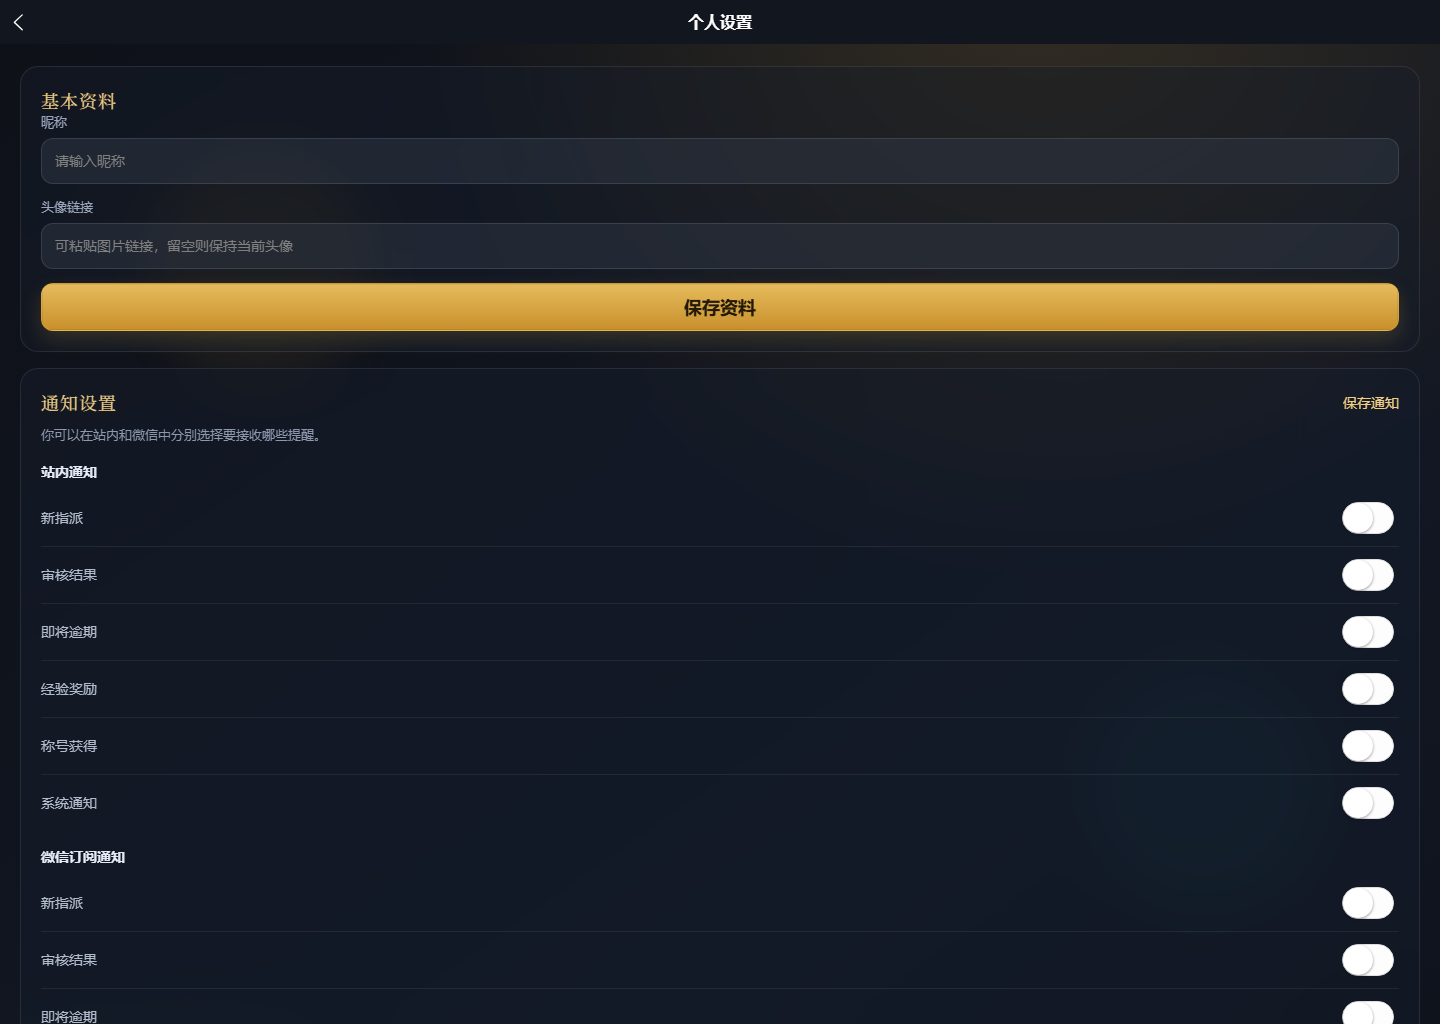
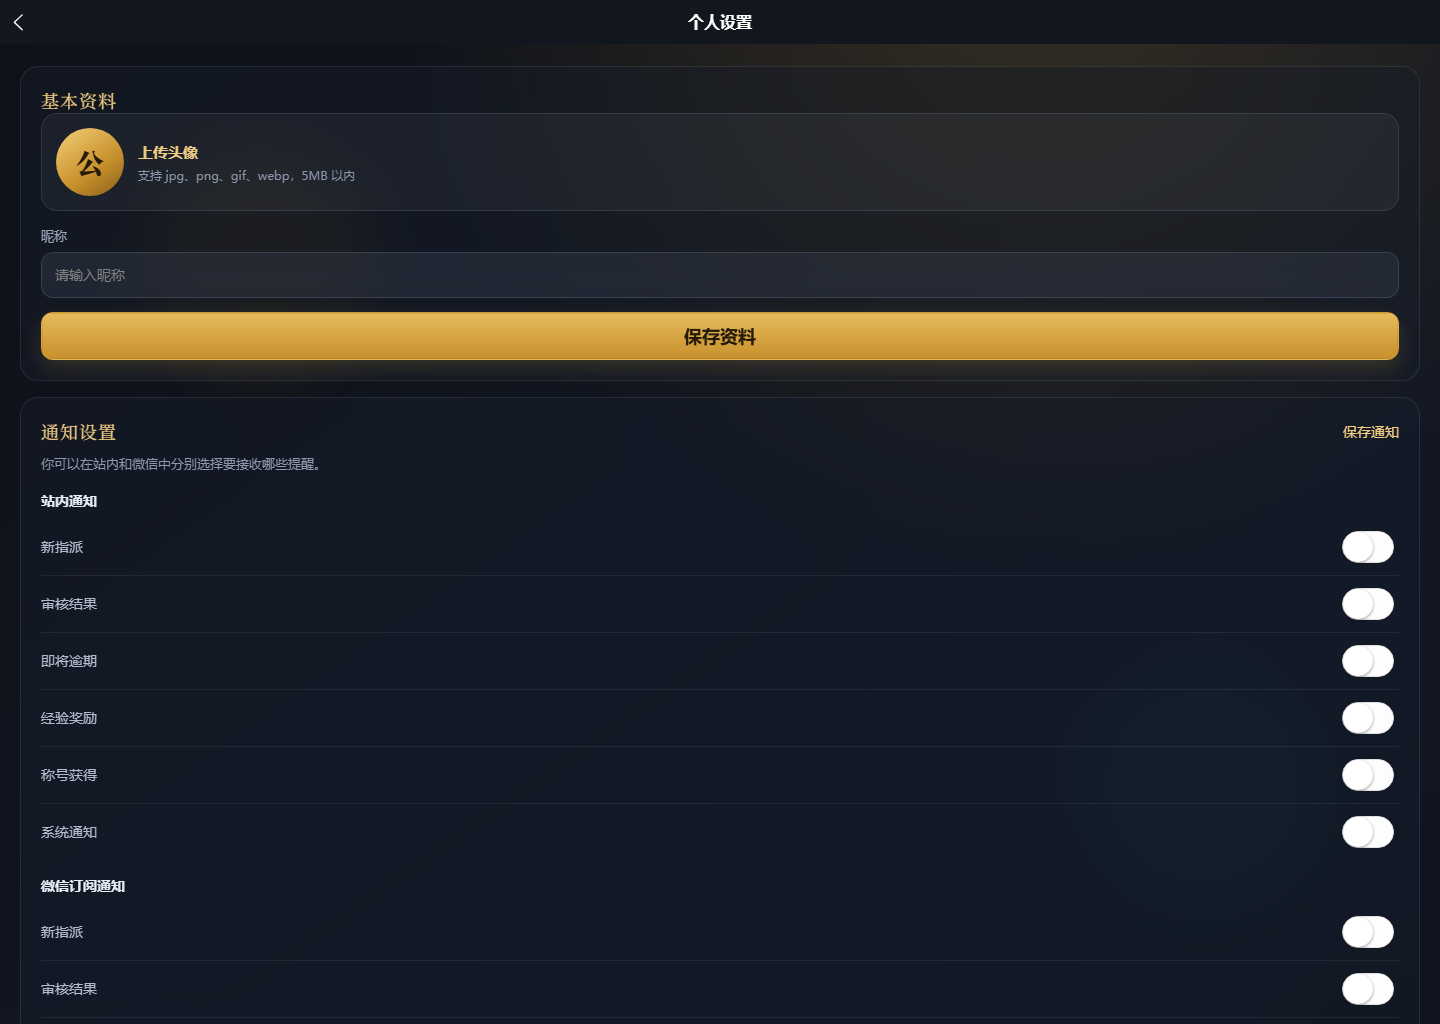
完善头像上传与展示

Changed region(s): [[0.0312, 0.0938, 0.9688, 1.0], [0.9062, 0.4688, 0.9688, 1.0]]

diff --git a/apps/web/src/pages/me/settings.vue b/apps/web/src/pages/me/settings.vue
@@ -5,13 +5,17 @@
 
     <view class="section">
       <text class="section-title">基本资料</text>
+      <view class="avatar-row" @tap="chooseAvatar">
+        <image v-if="avatarUrl" class="avatar-img" :src="avatarUrl" mode="aspectFill" />
+        <view v-else class="avatar-placeholder">{{ initials }}</view>
+        <view class="avatar-action">
+          <text class="avatar-action-title">{{ avatarUrl ? '更换头像' : '上传头像' }}</text>
+          <text class="avatar-action-sub">支持 jpg、png、gif、webp，5MB 以内</text>
+        </view>
+      </view>
       <view class="field-row">
         <text class="field-label">昵称</text>
         <input v-model="nickname" class="field" placeholder="请输入昵称" />
-      </view>
-      <view class="field-row">
-        <text class="field-label">头像链接</text>
-        <input v-model="avatarUrl" class="field" placeholder="可粘贴图片链接，留空则保持当前头像" />
       </view>
       <button class="btn primary" :loading="savingProfile" @tap="saveProfile">保存资料</button>
     </view>
@@ -62,7 +66,12 @@
 <script setup lang="ts">
 import { ref } from 'vue';
 import { onShow } from '@dcloudio/uni-app';
-import { request, setCachedUser } from '../../api/client';
+import {
+  getAccessToken,
+  PUBLIC_ORIGIN,
+  request,
+  setCachedUser,
+} from '../../api/client';
 import { useAuthStore } from '../../stores/auth';
 
 interface SelfProfile {
@@ -89,6 +98,7 @@ const savingProfile = ref(false);
 const savingPassword = ref(false);
 const inapp = ref<Record<string, boolean>>({});
 const wechat = ref<Record<string, boolean>>({});
+const initials = (auth.user?.nickname ?? '公').slice(0, 1);
 
 const inappItems = [
   { key: 'assign', label: '新指派' },
@@ -141,7 +151,6 @@ async function saveProfile() {
       method: 'PATCH',
       data: {
         nickname: nickname.value.trim(),
-        avatarUrl: avatarUrl.value.trim() || null,
       },
     });
     setCachedUser(updated);
@@ -152,6 +161,59 @@ async function saveProfile() {
   } finally {
     savingProfile.value = false;
   }
+}
+
+function chooseAvatar() {
+  uni.chooseImage({
+    count: 1,
+    success: async (result) => {
+      const filePath = result.tempFilePaths[0];
+      if (!filePath) {
+        return;
+      }
+      try {
+        const updated = await uploadAvatar(filePath);
+        avatarUrl.value = updated.avatarUrl ?? '';
+        setCachedUser(updated);
+        auth.user = updated as unknown as typeof auth.user;
+        uni.showToast({ title: '头像已更新', icon: 'success' });
+      } catch (error) {
+        uni.showToast({ title: (error as { message: string }).message, icon: 'none' });
+      }
+    },
+  });
+}
+
+function uploadAvatar(filePath: string): Promise<SelfProfile> {
+  return new Promise((resolve, reject) => {
+    uni.uploadFile({
+      url: `${PUBLIC_ORIGIN}/api/v1/users/me/avatar`,
+      filePath,
+      name: 'file',
+      header: {
+        Authorization: `Bearer ${getAccessToken()}`,
+      },
+      success: (response) => {
+        if (response.statusCode >= 200 && response.statusCode < 300) {
+          try {
+            resolve(JSON.parse(response.data) as SelfProfile);
+          } catch {
+            reject({ message: '头像保存失败' });
+          }
+        } else {
+          let message = '头像上传失败';
+          try {
+            const body = JSON.parse(response.data) as { message?: string };
+            message = body.message ?? message;
+          } catch {
+            /* keep default */
+          }
+          reject({ message });
+        }
+      },
+      fail: () => reject({ message: '网络异常，请稍后重试' }),
+    });
+  });
 }
 
 async function savePrefs() {
@@ -280,6 +342,49 @@ onShow(() => {
   flex-direction: column;
   gap: 8px;
   margin-bottom: 14px;
+}
+.avatar-row {
+  display: flex;
+  align-items: center;
+  gap: 14px;
+  padding: 14px;
+  margin-bottom: 16px;
+  border-radius: 16px;
+  background: rgba(255, 255, 255, 0.045);
+  border: 1px solid rgba(148, 163, 190, 0.18);
+}
+.avatar-img,
+.avatar-placeholder {
+  width: 68px;
+  height: 68px;
+  border-radius: 50%;
+  flex-shrink: 0;
+}
+.avatar-img {
+  border: 2px solid rgba(224, 170, 60, 0.34);
+}
+.avatar-placeholder {
+  display: grid;
+  place-items: center;
+  color: #241a08;
+  font-family: var(--font-display);
+  font-size: 28px;
+  font-weight: 800;
+  background: linear-gradient(145deg, #f2cf77, #c8902c 60%, #8a5f1a);
+}
+.avatar-action {
+  display: flex;
+  flex-direction: column;
+  gap: 5px;
+}
+.avatar-action-title {
+  color: #f2ce85;
+  font-size: 15px;
+  font-weight: 700;
+}
+.avatar-action-sub {
+  color: #8d98ad;
+  font-size: 12px;
 }
 .field-label {
   color: #9aa5bb;

diff --git a/apps/api/src/auth/auth.controller.ts b/apps/api/src/auth/auth.controller.ts
@@ -2,6 +2,7 @@ import { Body, Controller, Get, Post } from '@nestjs/common';
 import { CurrentUser, Public, type RequestUser } from '../common/decorators';
 import { PrismaService } from '../prisma/prisma.service';
 import { AuthService } from './auth.service';
+import { env } from '../config/env';
 import {
   LoginDto,
   RefreshDto,
@@ -52,7 +53,7 @@ export class AuthController {
 
   @Get('me')
   async me(@CurrentUser() user: RequestUser) {
-    return this.prisma.user.findUniqueOrThrow({
+    const row = await this.prisma.user.findUniqueOrThrow({
       where: { id: user.id },
       select: {
         id: true,
@@ -64,5 +65,11 @@ export class AuthController {
         department: { select: { name: true } },
       },
     });
+    return {
+      ...row,
+      avatarUrl: row.avatarUrl
+        ? `${env.publicBaseUrl}/api/v1/users/${user.id}/avatar`
+        : null,
+    };
   }
 }

diff --git a/apps/web/src/pages/me/index.vue b/apps/web/src/pages/me/index.vue
@@ -4,7 +4,8 @@
     <view class="glow glow-b" />
 
     <view class="profile-card">
-      <view class="avatar">{{ initials }}</view>
+      <image v-if="auth.user?.avatarUrl" class="avatar avatar-img" :src="auth.user.avatarUrl" mode="aspectFill" />
+      <view v-else class="avatar">{{ initials }}</view>
       <view class="identity">
         <text class="name">{{ auth.user?.nickname }}</text>
         <text class="username">@{{ auth.user?.username }}</text>
@@ -216,6 +217,9 @@ onShow(() => {
   font-weight: 800;
   background: linear-gradient(145deg, #f2cf77, #c8902c 60%, #8a5f1a);
   box-shadow: 0 12px 28px rgba(224, 170, 60, 0.22);
+}
+.avatar-img {
+  border: 2px solid rgba(224, 170, 60, 0.34);
 }
 .identity {
   flex: 1;

diff --git a/apps/web/src/pages/home/index.vue b/apps/web/src/pages/home/index.vue
@@ -16,7 +16,8 @@
         <view class="top-actions">
           <text class="status-dot" />
           <text class="status-text">实时同步已连接</text>
-          <view class="avatar">{{ initials }}</view>
+          <image v-if="auth.user?.avatarUrl" class="avatar avatar-img" :src="auth.user.avatarUrl" mode="aspectFill" />
+          <view v-else class="avatar">{{ initials }}</view>
         </view>
       </view>
 
@@ -241,6 +242,9 @@ onShow(() => {
   font-weight: 700;
   background: rgba(255, 255, 255, 0.06);
   border: 1px solid rgba(224, 170, 60, 0.28);
+}
+.avatar-img {
+  border: 1px solid rgba(224, 170, 60, 0.32);
 }
 .hero {
   display: grid;
